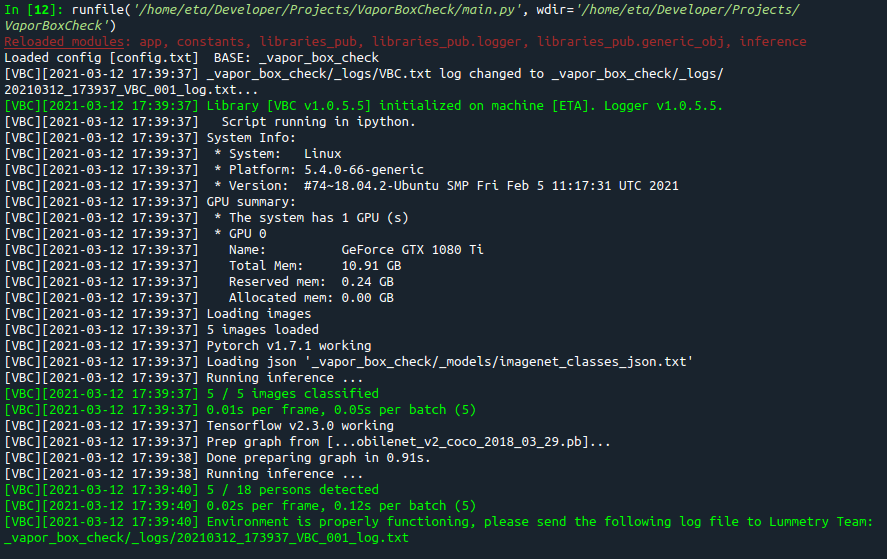
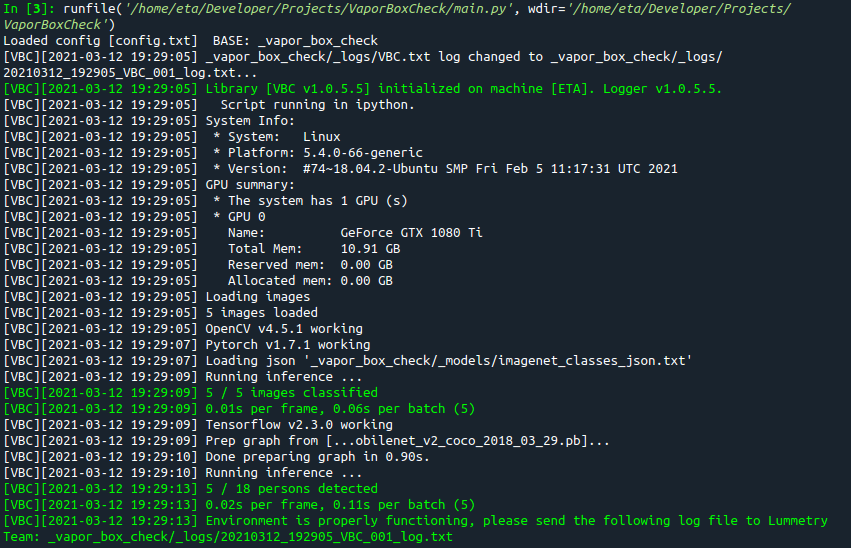
Checking opencv

Changed region(s): [[0.0, 0.0, 0.9777, 0.9927]]

diff --git a/app.py b/app.py
@@ -48,6 +48,7 @@ class VaporBoxCheck(LummetryObject):
     self.log.gpu_info()
     self._load_images()
     self._cfg_inf = self.log.load_json('inference.txt', verbose=False)
+    self._opencv_success = False
     self._pytorch_success = False
     self._tensorflow_success = False
     return
@@ -175,12 +176,22 @@ class VaporBoxCheck(LummetryObject):
         color='r'
         )
     return
-
+  
+  def _check_opencv(self):
+    try:
+      import cv2
+      self._opencv_success = True
+      self.log.p('OpenCV v{} working'.format(cv2.__version__))
+    except:
+      self.log.p('OpenCV not found.', color='r')
+    return
+  
   def run(self):
+    self._check_opencv()
     self._run_pytorch()
     self._run_tensorflow()
     
-    if self._pytorch_success and self._tensorflow_success:
+    if all([self._opencv_success, self._pytorch_success, self._tensorflow_success]):
       self.log.p(
         str_msg='Environment is properly functioning, please send ' + 
           'the following log file to Lummetry Team: {}'.format(self.log.log_file),
